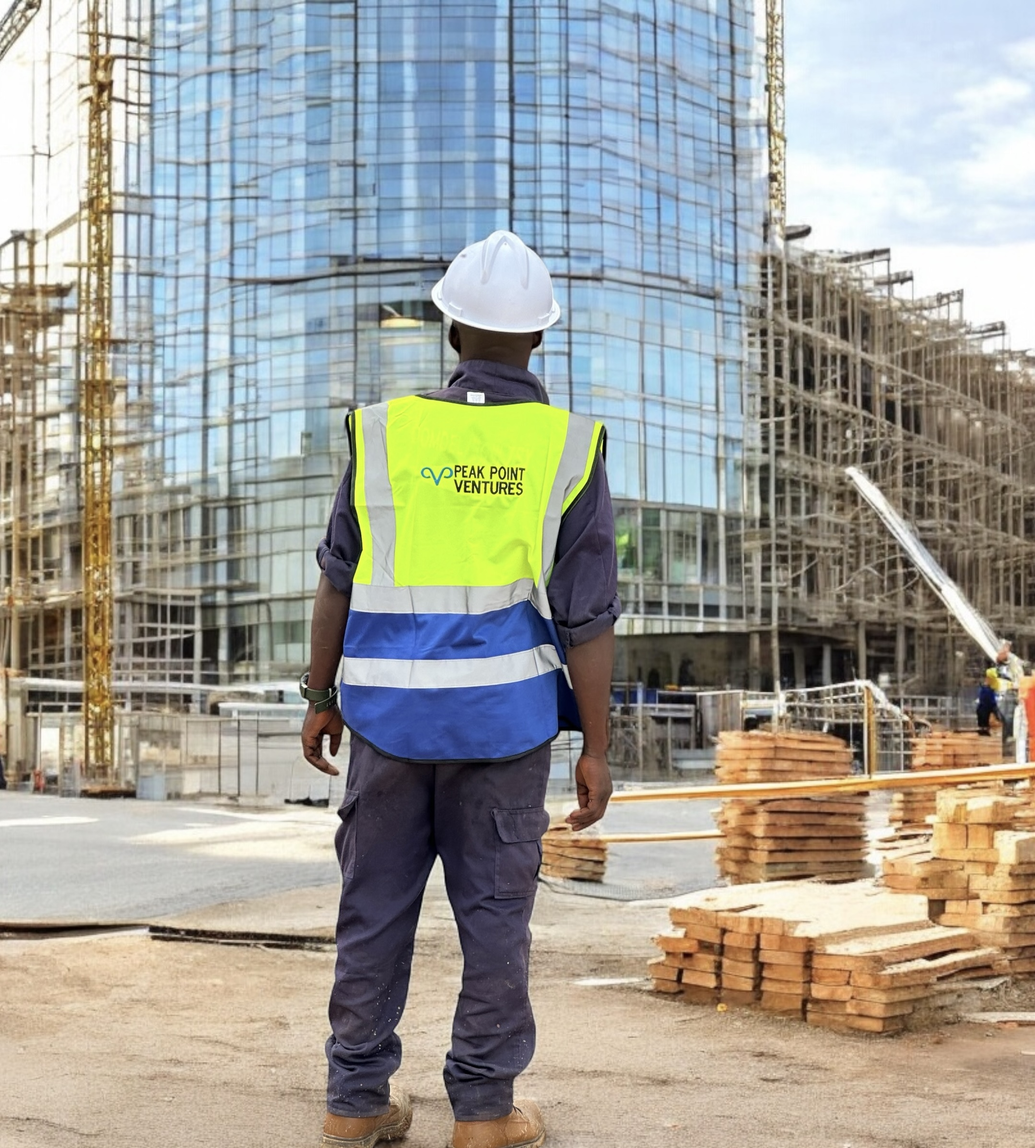
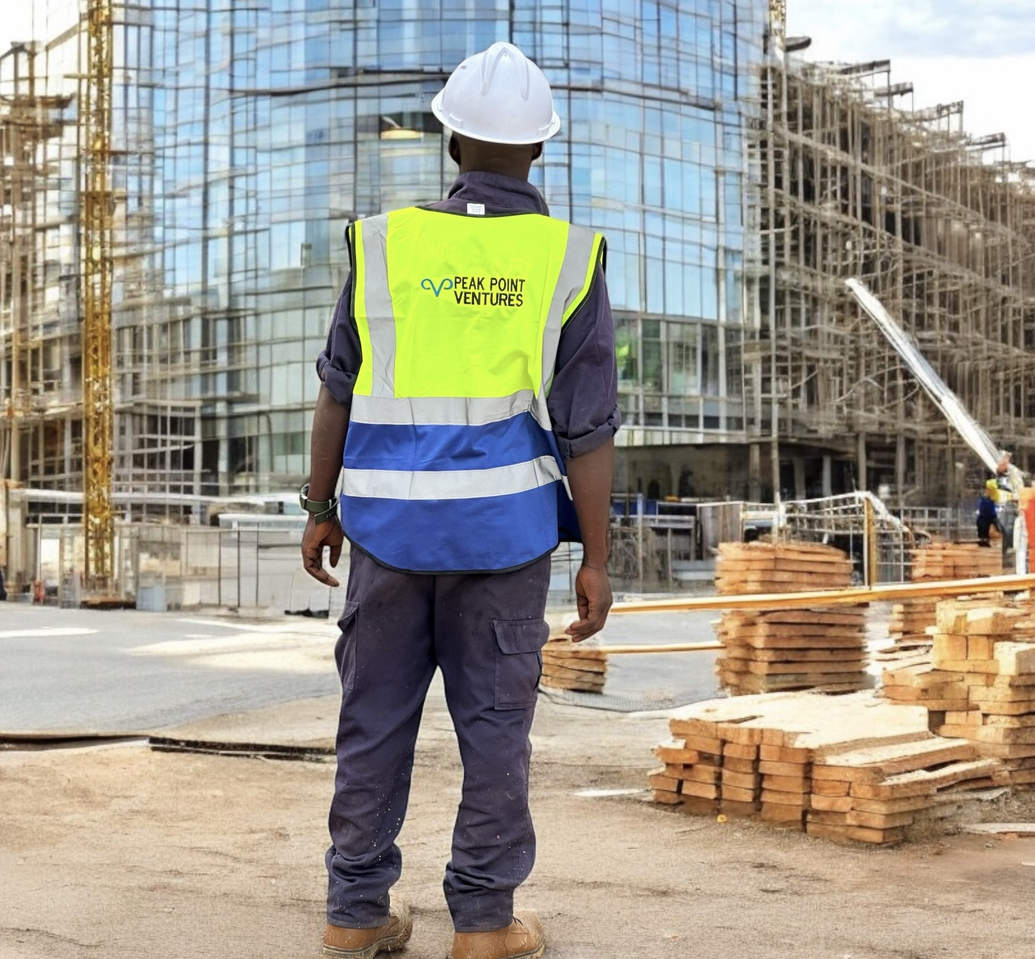
feat: website updates

diff --git a/index.html b/index.html
@@ -209,7 +209,7 @@
                         </div>
                         <div class="col-xl-5 mil-mb-80">
                             <div class="mil-image-frame mil-visible-overflow">
-                                <img src="img/working-outdoors-min.jpg" alt="image" class="mil-up">
+                                <img src="img/workining.webp" alt="image" class="mil-up">
                                 <div class="mil-img-box mil-accent-box mil-up">
                                     <img src="img/home-3/icons/1.svg" alt="icon">
                                 </div>
